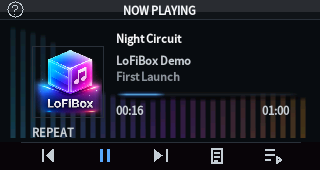
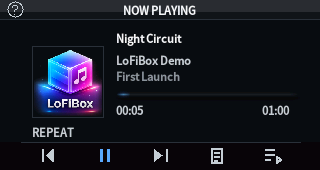
fix: preserve embedded lyrics offline and verify fresh 0.3.9 startup

Changed region(s): [[0.0312, 0.1765, 0.9688, 0.8235]]

diff --git a/tests/offline_embedded_lyrics_smoke.cpp b/tests/offline_embedded_lyrics_smoke.cpp
@@ -1,0 +1,62 @@
+// SPDX-License-Identifier: GPL-3.0-or-later
+#include "playback/playback_enrichment_coordinator.h"
+#include "platform/host/host_runtime_service_providers.h"
+#include <cassert>
+#include <chrono>
+#include <cstdlib>
+#include <filesystem>
+#include <fstream>
+#include <thread>
+#include <unistd.h>
+
+namespace {
+struct Network final : lofibox::app::ConnectivityProvider {
+    explicit Network(bool value) : online(value) {}
+    bool connected() const override { return online; }
+    std::string displayName() const override { return "FIXTURE"; }
+    bool online;
+};
+}
+int main()
+{
+    using namespace lofibox;
+    namespace fs = std::filesystem;
+    using namespace std::chrono_literals;
+    const auto root = fs::temp_directory_path() / ("lofibox-local-lyrics-" + std::to_string(getpid()));
+    fs::create_directories(root);
+    setenv("XDG_CONFIG_HOME", root.c_str(), 1);
+    setenv("XDG_CACHE_HOME", root.c_str(), 1);
+    const auto reader = root / "local-lyrics-reader";
+    // Exercise the real host provider's local-helper path without requiring
+    // Mutagen or a particular codec on the test host. No network is involved.
+    std::ofstream{reader} << "#!/bin/sh\nprintf 'synced=[00:00.00]Local offline line\\n'\n";
+    fs::permissions(reader, fs::perms::owner_all);
+    setenv("PYTHON_EXECUTABLE", reader.c_str(), 1);
+    setenv("CURL_PATH", "/bin/false", 1);
+    for (const bool battery : {false, true}) {
+        auto services = app::withNullRuntimeServices();
+        auto context = platform::host::createHostRuntimeServiceContext();
+        context.preferences = std::make_shared<app::RuntimePreferences>(
+            app::RuntimePreferences::kDefaults | (battery ? 32U : 0U));
+        context.connectivity.provider = std::make_shared<Network>(battery);
+        services.ui.preferences = context.preferences;
+        services.connectivity = context.connectivity;
+        services.metadata.lyrics_provider = platform::host::createHostMetadataServices(context).lyrics_provider;
+        const auto file = root / (battery ? "battery.mp3" : "offline.mp3");
+        std::ofstream{file} << "fixture";
+        app::TrackRecord track{42, file, "Fixture", "Artist", "Album"};
+        app::LibraryController library; library.mutableModel().tracks.push_back(track);
+        app::PlaybackSession session; session.current_track_id = 42;
+        session.status = app::PlaybackStatus::Playing; session.lyrics_lookup_pending = true;
+        {
+            app::PlaybackEnrichmentCoordinator worker; worker.setServices(services); worker.request(track);
+            const auto end = std::chrono::steady_clock::now() + 3s;
+            while (session.lyrics_lookup_pending && std::chrono::steady_clock::now() < end) {
+                worker.applyPending(library, session); std::this_thread::sleep_for(5ms);
+            }
+            assert(!session.lyrics_lookup_pending);
+            assert(session.current_lyrics.synced == "[00:00.00]Local offline line");
+        }
+    }
+    fs::remove_all(root);
+}

diff --git a/tests/offline_enrichment_smoke.cpp b/tests/offline_enrichment_smoke.cpp
@@ -16,10 +16,12 @@ struct Connectivity : lofibox::app::ConnectivityProvider {
 };
 struct Metadata : lofibox::app::MetadataProvider {
     mutable std::atomic<int> started{}, cancelled{}, local{};
+    std::function<bool()> unavailable;
     bool available() const override { return true; }
     std::string displayName() const override { return "TEST"; }
     lofibox::app::TrackMetadata read(const std::filesystem::path&, lofibox::app::MetadataReadMode mode) const override {
         if (mode == lofibox::app::MetadataReadMode::LocalOnly) { ++local; return {}; }
+        const lofibox::core::OperationCancellationGuard online_guard{unavailable};
         if (!lofibox::core::operationCancelled()) {
             ++started;
             (void)lofibox::platform::host::runtime_detail::captureProcessOutput("/bin/sh", {"-c", "sleep 10"});
@@ -37,6 +39,9 @@ int main() {
     using namespace lofibox;
     auto services = app::withNullRuntimeServices();
     auto network = std::make_shared<Connectivity>(); auto metadata = std::make_shared<Metadata>();
+    metadata->unavailable = [network, preferences=services.ui.preferences] {
+        return !network->online || preferences->effective(app::RuntimeFeature::BatterySaver);
+    };
     services.connectivity.provider = network; services.metadata.metadata_provider = metadata;
     app::LibraryController library; app::TrackRecord track{42, "offline.mp3", "Local title", "Local artist", "Local album"};
     library.mutableModel().tracks.push_back(track);

diff --git a/src/playback/playback_enrichment_coordinator.cpp b/src/playback/playback_enrichment_coordinator.cpp
@@ -107,10 +107,6 @@ void PlaybackEnrichmentCoordinator::request(const TrackRecord& track)
         const auto local_seed = mergeLyricsSeed(seed_metadata, local.metadata);
         publish(std::move(local));
 
-        const core::OperationCancellationGuard online_guard{[&services_snapshot] {
-            return !onlineScrapingAllowed(services_snapshot);
-        }};
-
         PlaybackEnrichmentResult result{};
         result.track_id = track_id;
         result.path = path;
@@ -154,9 +150,6 @@ void PlaybackEnrichmentCoordinator::requestRemote(
     const std::uint64_t generation = ++generation_;
 
     enqueue([this, services_snapshot, profile, remote_track, track_id, stream_uri = std::move(stream_uri), lookup_path, seed_metadata, stable_cache_key, cache_remote_facts, generation](std::stop_token token) {
-        const core::OperationCancellationGuard online_guard{[&services_snapshot] {
-            return !onlineScrapingAllowed(services_snapshot);
-        }};
         PlaybackEnrichmentResult result{};
         result.track_id = track_id;
         result.path = lookup_path;

diff --git a/docs/cardputer-resource-validation.md b/docs/cardputer-resource-validation.md
@@ -295,3 +295,35 @@ Final private candidate artifacts (not replacements for the published 0.3.8-4):
 
 Private raw samples, screenshots and control results are under
 `.tmp/candidate-0.3.8-5`. The existing Store PR/release assets are unchanged.
+
+## 0.3.9 release follow-up
+
+Fresh-profile acceptance caught a pre-release offline-lyrics bug that the
+existing cached library did not reveal. A coordinator-wide offline guard also
+cancelled the host provider's local Mutagen/ffprobe lyrics reader. The guard
+was removed from that composite phase; provider guards remain around network
+work after local/cache reads. A new test reproduces the failure using the real
+host lyrics provider and a controlled local-helper fixture, then passes with
+both network-offline and battery-mode policies. The blocking-network-worker
+test still verifies prompt cancellation at the provider's network boundary.
+Release-profile suites now pass 122 framebuffer and 119 Wayland tests.
+
+The release artifacts are rebuilt as 0.3.9-1 and are distinct from the private
+0.3.8-5 candidates above. Corresponding source and Store publication require
+the final versioned package/fresh-profile checks and a passing source CI run.
+
+The corrected final 0.3.9-1 package was installed on the board and opened from
+the APPLaunch icon using a second, completely new XDG profile with only the two
+original demo MP3s. The library indexed both files, playback was active and
+embedded synchronized lyrics loaded with online tools disabled. GUI spectrum,
+library, 15M/10S timer and battery-setting screenshots were captured directly
+from that session. Consumed Space wake and accelerated stop-and-exit/backlight
+restoration also passed. The exact installed desktop entry was restored byte
+for byte, and the normal configuration hashes and Grove power state matched.
+
+The frozen 0.3.9-1 package hashes are:
+
+- Cardputer ARM64 framebuffer:
[1 lines of base64/hex data omitted]
+- Debian amd64 Wayland:
[1 lines of base64/hex data omitted]

diff --git a/packaging/store/README.md b/packaging/store/README.md
@@ -15,9 +15,10 @@ must be populated with actual 320×170 device captures:
   background spectrum and the contextual icon action bar.
 - `screenshots/library.png`: a library containing only the original demo tracks.
 - `screenshots/timers.png`: the real sleep and idle-screen timer settings.
+- `screenshots/power.png`: the long battery setting on the real device.
 
 These are actual Cardputer Zero framebuffer captures from the installed
-`0.3.8-4` package, using a separate XDG profile and only the two original demo
+`0.3.9-1` package, using a separate XDG profile and only the two original demo
 tracks. Do not substitute host browser screenshots or older device captures
 when updating this listing. Regenerate captures after a materially changed
 candidate is installed and verified.

diff --git a/CHANGELOG.md b/CHANGELOG.md
@@ -39,6 +39,11 @@ and this project adheres to [Semantic Versioning](https://semver.org/spec/v2.0.0
   with the display blank used about 7.7%. Results depend on track and background
   work; these are not battery-life guarantees.
 
+### Fixed
+
+- Keep local embedded-lyrics helper reads available while offline or in battery
+  mode; cancel only the online portion of enrichment operations.
+
 ## [0.3.8] - 2026-09-03
 
 ### Changed
